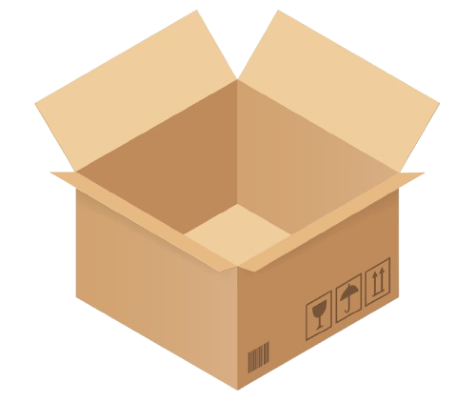
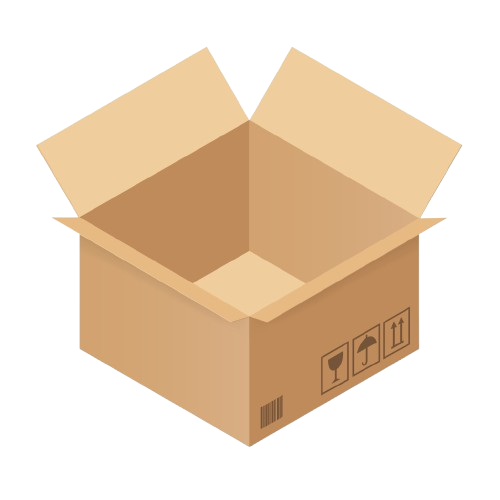
feat: 편지 개수 이미지 변경 로직 추가

diff --git a/src/components/timecapsule/main/CapsuleBox.tsx b/src/components/timecapsule/main/CapsuleBox.tsx
@@ -1,24 +1,37 @@
 import * as S from '../../../styles/timecapsule/main/CapsuleBox.style';
 
-const CapsuleBox = ({letterCount}) => {
-	const handleCapsuleBox = () => {
-		window.location.href = '/directory/time/1';
-	};
+const IMAGE_MAP = [
+	{ range: [1, 3], src: '/main/Box-2.png' },
+	{ range: [4, 8], src: '/main/Box-3.png' },
+	{ range: [9, 12], src: '/main/Box-4.png' },
+  ];
 
-	return (
-		<S.CapsuleBoxContainer>
-			<S.TitleContainer>
-				<S.TopSection>2026년의 나에게</S.TopSection>
-				<S.BottomSection>
-					<img src="/main/Capsule.svg" width={50} height={35} />
-					<span>{letterCount}</span>개의 편지가 보관되어있어요!
-				</S.BottomSection>
-			</S.TitleContainer>
-			<S.BoxContainer onClick={handleCapsuleBox}>
-				<img src="/main/Box-1.png" width={450} height={400} />
-			</S.BoxContainer>
-		</S.CapsuleBoxContainer>
-	);
+const CapsuleBox = ({ letterCount }) => {
+  const handleCapsuleBox = () => {
+    window.location.href = '/directory/time/1';
+  };
+
+  const getImageSrc = () => {
+    const found = IMAGE_MAP.find(
+      (item) => letterCount >= item.range[0] && letterCount <= item.range[1]
+    );
+    return found ? found.src : '/main/Box-1.png';
+  };
+
+  return (
+    <S.CapsuleBoxContainer>
+      <S.TitleContainer>
+        <S.TopSection>2026년의 나에게</S.TopSection>
+        <S.BottomSection>
+          <img src="/main/Capsule.svg" width={50} height={35} />
+          <span>{letterCount}</span>개의 편지가 보관되어있어요!
+        </S.BottomSection>
+      </S.TitleContainer>
+      <S.BoxContainer onClick={handleCapsuleBox}>
+        <img src={getImageSrc()} width={470} height={470} />
+      </S.BoxContainer>
+    </S.CapsuleBoxContainer>
+  );
 };
 
 export default CapsuleBox;
